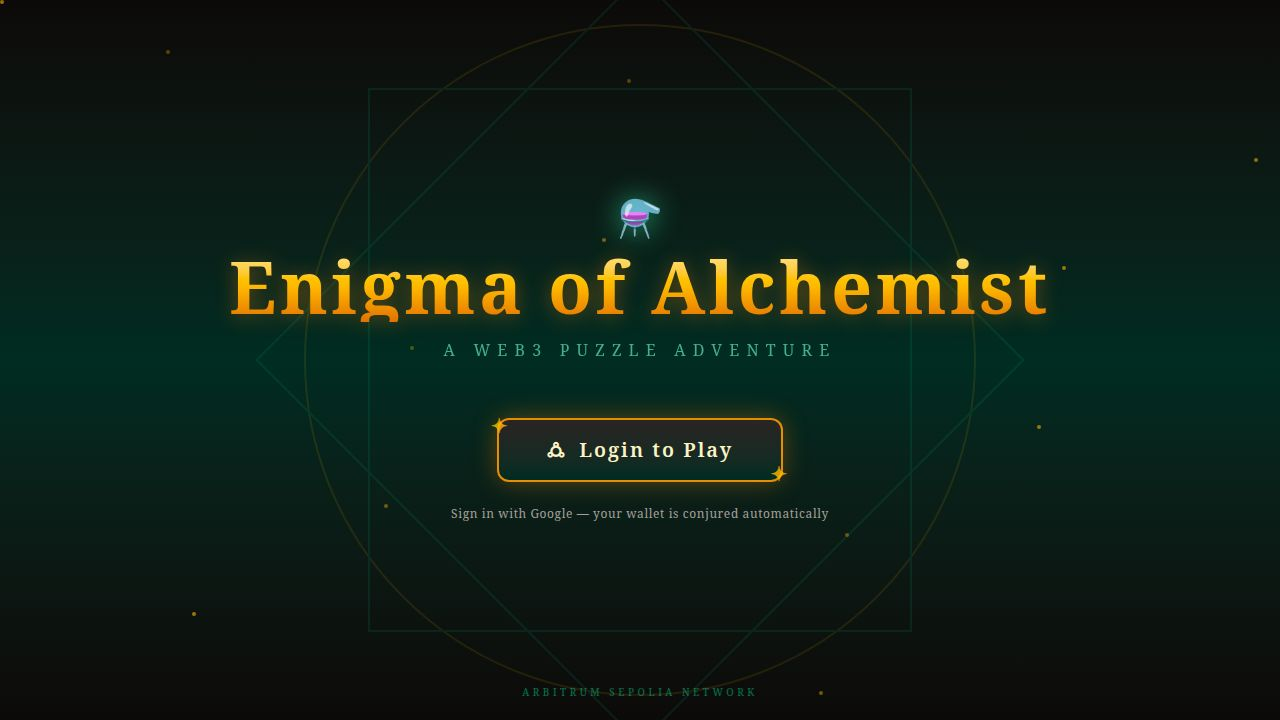
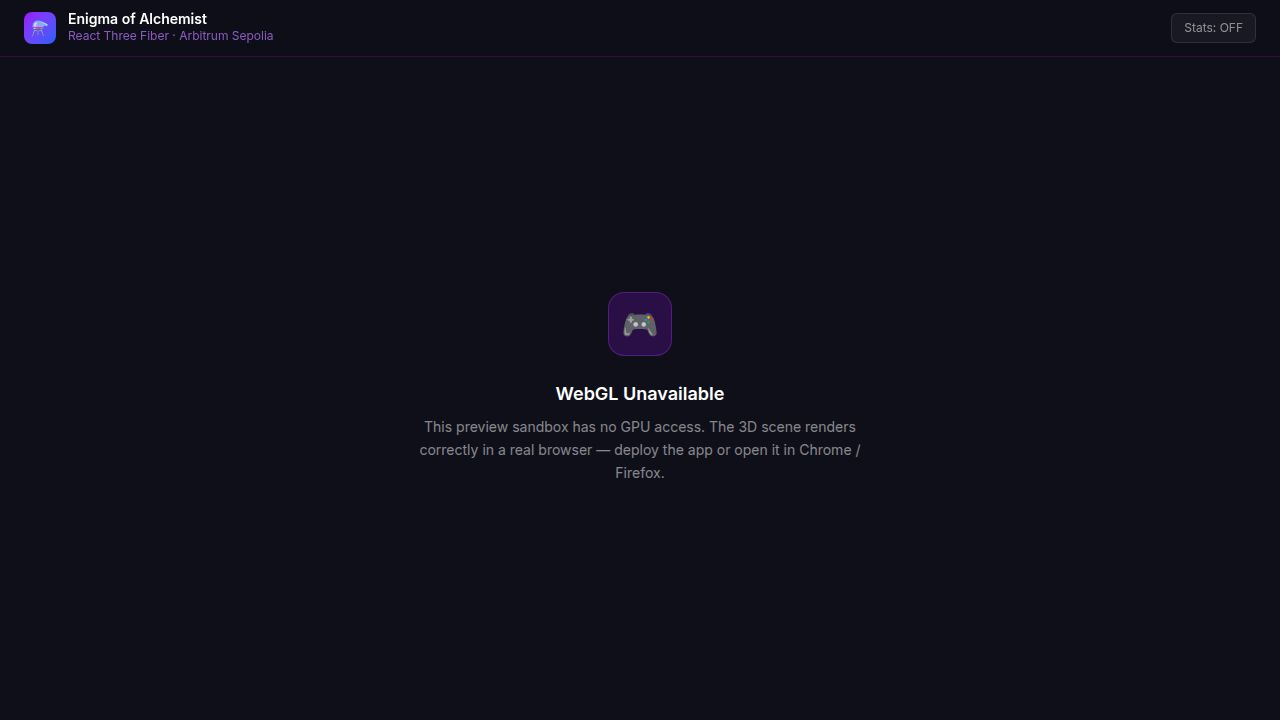
Implement a Fortnite-style third-person camera controller and relative movement
Update Player.tsx and Scene.tsx to implement a camera-relative third-person controller using @user/fiber and @user/drei, including character scaling, camera orbit controls, and smooth camera following.

Replit-Commit-Author: Agent
Replit-Commit-Session-Id: 292202ef-63d3-41d8-849c-858e9d7b175a
Replit-Commit-Checkpoint-Type: full_checkpoint
Replit-Commit-Event-Id: 8d97f522-24b5-46c8-a28e-c0a0002607c6
Replit-Commit-Screenshot-Url: https://storage.googleapis.com/screenshot-production-us-central1/5075538a-ae98-4d41-8350-b591bcd38aa4/292202ef-63d3-41d8-849c-858e9d7b175a/zk5vwV3
Replit-Helium-Checkpoint-Created: true

diff --git a/artifacts/3d-game/src/components/scene/Scene.tsx b/artifacts/3d-game/src/components/scene/Scene.tsx
@@ -1,13 +1,13 @@
 import { Suspense, useRef, useState } from "react";
-import { Canvas, useFrame, useThree } from "@react-three/fiber";
-import { Grid, Environment, Sky, Stats, KeyboardControls } from "@react-three/drei";
+import type { ElementRef } from "react";
+import { Canvas, useFrame } from "@react-three/fiber";
+import { Grid, Environment, Sky, Stats, KeyboardControls, OrbitControls } from "@react-three/drei";
 import * as THREE from "three";
 import Floor from "./Floor";
 import { WorldModel } from "./WorldModel";
 import Player, {
   PLAYER_SPAWN,
   PLAYER_WORLD_POS,
-  PLAYER_WORLD_ROT,
   playerKeyboardMap,
 } from "../3d/Player";
 import GameHUD from "../hud/GameHUD";
@@ -25,43 +25,28 @@ function isWebGLAvailable(): boolean {
   }
 }
 
-// ─── Third-person follow camera ───────────────────────────────────────────────
-const _camTarget = new THREE.Vector3();
-const _camPos    = new THREE.Vector3();
-const _lookAt    = new THREE.Vector3();
+// ─── Fortnite-style camera rig ─────────────────────────────────────────────
+// OrbitControls owns the camera (mouse drag = 360° orbit, maxPolarAngle keeps
+// it from dipping under the map). This rig just keeps the orbit *target*
+// smoothly chasing the player's upper body every frame — OrbitControls'
+// own per-frame update() then repositions the camera to preserve whatever
+// angle/distance the player last set with the mouse. That's what gives the
+// "camera follows, but you can still freely look around" Fortnite feel.
+const _cameraRigTarget = new THREE.Vector3();
 
-function FollowCamera() {
-  const { camera } = useThree();
+type OrbitControlsHandle = ElementRef<typeof OrbitControls>;
 
-  // Set initial camera pose once — matches PLAYER_SPAWN so the camera
-  // doesn't pop from the world origin to the (now far-away) spawn point.
-  const initialised = useRef(false);
-  if (!initialised.current) {
-    const [sx, sy, sz] = PLAYER_SPAWN;
-    camera.position.set(sx, sy + 3, sz + 8);
-    camera.lookAt(sx, sy + 1.2, sz);
-    initialised.current = true;
-  }
-
+function CameraRig({ controlsRef }: { controlsRef: React.RefObject<OrbitControlsHandle | null> }) {
   useFrame(() => {
-    const px = PLAYER_WORLD_POS.x;
-    const py = PLAYER_WORLD_POS.y;
-    const pz = PLAYER_WORLD_POS.z;
-    const ry = PLAYER_WORLD_ROT.y;
-
-    // Offset: 7 units behind the player, 3 units up — rotates with the player
-    const offsetX = Math.sin(ry) * 7;
-    const offsetZ = Math.cos(ry) * 7;
-
-    _camPos.set(px + offsetX, py + 3.5, pz + offsetZ);
-    _lookAt.set(px, py + 1.4, pz);
-
-    // Smooth follow
-    camera.position.lerp(_camPos, 0.06);
-    _camTarget.lerp(_lookAt, 0.1);
-    camera.lookAt(_camTarget);
+    const controls = controlsRef.current;
+    if (!controls) return;
+    _cameraRigTarget.set(
+      PLAYER_WORLD_POS.x,
+      PLAYER_WORLD_POS.y + 1.4, // look at upper body / head height
+      PLAYER_WORLD_POS.z,
+    );
+    controls.target.lerp(_cameraRigTarget, 0.15);
   });
-
   return null;
 }
 
@@ -93,6 +78,7 @@ export default function Scene({ showStats = false }: SceneProps) {
   const [score] = useState(340);
   const [essences] = useState(3);
   const [walletAddress, setWalletAddress] = useState<string | null>(null);
+  const controlsRef = useRef<OrbitControlsHandle | null>(null);
 
   const handleConnectWallet = () => {
     // Placeholder — Magic Labs + Openfort wiring happens here for Arbitrum Sepolia.
@@ -116,8 +102,22 @@ export default function Scene({ showStats = false }: SceneProps) {
       >
         {showStats && <Stats />}
 
-        {/* Follow camera (replaces OrbitControls — conflicts with movement) */}
-        <FollowCamera />
+        {/* Fortnite-style camera: OrbitControls handles mouse-driven 360°
+            orbit (enablePan disabled so you can't drag the world around;
+            maxPolarAngle caps the camera at horizon height so it can't dip
+            below the map). CameraRig keeps the orbit target glued to the
+            player so the camera follows her as she moves. */}
+        <OrbitControls
+          ref={controlsRef}
+          makeDefault
+          enablePan={false}
+          maxPolarAngle={Math.PI / 2}
+          minDistance={3}
+          maxDistance={12}
+          enableDamping
+          dampingFactor={0.08}
+        />
+        <CameraRig controlsRef={controlsRef} />
 
         {/* ── Lighting ──────────────────────────────────────────────────── */}
         {/* Soft fill for the anime character skin */}
@@ -173,21 +173,19 @@ export default function Scene({ showStats = false }: SceneProps) {
 
         <Suspense fallback={null}>
           {/*
-            Forest is now the real walkable world (not a diorama).
-            targetSize=250 makes the model's widest axis span 250 world
-            units, so trees read as 3-5x the character's height.
+            Forest is the walkable world (not a diorama). targetSize=250
+            makes the model's widest axis span 250 world units, so trees
+            read as 3-5x the character's height.
 
-            position.y=-56 is NOT a guess: measured the raw GLB's mesh
-            accessors directly (grnd top vs. the model's overall lowest
-            point, which is the slope mesh) and solved for the offset
-            that puts the "grnd" mesh's walkable top surface exactly at
-            world y=0 — the height the character always stands at (she
-            has no vertical/ground-raycast movement, see Player.tsx).
-            Final value: position.y = -(grndTopLocal - overallMinLocal) * scale
-                                     = -(1.332 - (-0.176)) * (250/6.73)
-                                     ≈ -56.0
+            The character now spawns at the world origin, so the island
+            just needs to sit slightly below her feet — position={[0,-2,0]}
+            per spec. This is a starting value, not a measured one (the
+            previous -56 offset was solved for a spawn point far from the
+            origin and no longer applies now that movement is camera-
+            relative from [0,0,0]). If she visibly floats or sinks, nudge
+            this Y value until the "grnd" mesh lines up with her feet.
           */}
-          <WorldModel url="/models/low_poly_forest.glb" targetSize={250} position={[0, -56, 0]} />
+          <WorldModel url="/models/low_poly_forest.glb" targetSize={250} position={[0, -2, 0]} />
 
           {/* Extra trees — enable once positioned/tested:
           <WorldModel url="/models/trees_optimized.glb" targetSize={30} position={[8, 0.1, -10]} />
@@ -230,10 +228,11 @@ export default function Scene({ showStats = false }: SceneProps) {
       {/* ── Controls hint overlay ─────────────────────────────────────────── */}
       <div className="absolute bottom-5 left-1/2 -translate-x-1/2 flex items-center gap-3 pointer-events-none select-none">
         {[
-          { keys: "W / ↑",   label: "Forward"  },
-          { keys: "S / ↓",   label: "Backward" },
-          { keys: "A / ←",   label: "Turn L"   },
-          { keys: "D / →",   label: "Turn R"   },
+          { keys: "W / ↑",   label: "Forward"    },
+          { keys: "S / ↓",   label: "Backward"   },
+          { keys: "A / ←",   label: "Strafe L"   },
+          { keys: "D / →",   label: "Strafe R"   },
+          { keys: "Mouse",   label: "Look Around"},
         ].map(({ keys, label }) => (
           <div
             key={label}

diff --git a/artifacts/3d-game/src/components/3d/Player.tsx b/artifacts/3d-game/src/components/3d/Player.tsx
@@ -1,21 +1,22 @@
 import { Suspense, useRef, useEffect, useState, useMemo } from "react";
 import { useGLTF, useAnimations, useKeyboardControls } from "@react-three/drei";
-import { useFrame, createPortal } from "@react-three/fiber";
+import { useFrame, useThree, createPortal } from "@react-three/fiber";
 import * as THREE from "three";
 
-// Spawn on an open grassy patch of the "grnd" mesh, clear of the water mesh.
-// Computed from the forest GLB's own mesh bounds (not eyeballed): at
-// targetSize=250 the model's world offset re-centers X/Z to 0, so
-// worldX = (localX - modelCenterX) * scale, worldZ = (localZ - modelCenterZ) * scale.
-// Picked local (x=0, z=2.5) — inside grnd's footprint (x: -3.1..2.9, z: 0..3.4),
-// safely past water's extent (z: -1.0..1.7). scale = 250/6.73 ≈ 37.15.
-export const PLAYER_SPAWN: [number, number, number] = [13.56, 0, 48.85];
+// Character now spawns at the world origin — scale/position tuned for a
+// Fortnite-style camera-relative controller (see useFrame below).
+export const PLAYER_SPAWN: [number, number, number] = [0, 0, 0];
 export const PLAYER_WORLD_POS = new THREE.Vector3(...PLAYER_SPAWN);
 export const PLAYER_WORLD_ROT = { y: 0 };
 
+// The GLB is modeled at a much larger scale than the scene expects —
+// 0.4 brings her in line with the surrounding trees/geometry.
+const PLAYER_SCALE = 0.4;
+
 // ─── Keyboard control map ──────────────────────────────────────────────────
 // Consumed by <KeyboardControls map={playerKeyboardMap}> wrapping the
-// <Canvas> in Scene.tsx.
+// <Canvas> in Scene.tsx. W/A/S/D are camera-relative (forward = "away from
+// camera", not a fixed world axis) — see the movement math in useFrame.
 export enum PlayerControl {
   forward = "forward",
   backward = "backward",
@@ -41,8 +42,18 @@ const WALK_SPEED = 2.2;
 const RUN_SPEED = 4.5;
 const TURN_LERP = 10; // higher = snappier facing rotation
 
+const WORLD_UP = new THREE.Vector3(0, 1, 0);
+
+// Reusable scratch vectors (avoid per-frame GC pressure).
+const _camForward = new THREE.Vector3();
+const _camRight = new THREE.Vector3();
+const _moveDir = new THREE.Vector3();
+const _desiredCamPos = new THREE.Vector3();
+const _lookAtTarget = new THREE.Vector3();
+
 function PlayerModel() {
   const group = useRef<THREE.Group>(null);
+  const { camera } = useThree();
 
   // Final animated character: mesh + armature + 6 clips
   // ('idle', 'walk', 'run', 'melee', 'gun', 'gun-fire').
@@ -151,21 +162,34 @@ function PlayerModel() {
     const speed = sprint ? RUN_SPEED : WALK_SPEED;
 
     if (moving) {
-      // World-space movement vector from WASD (x: strafe, z: forward/back).
-      const moveX = (left ? 1 : 0) - (right ? 1 : 0);
-      const moveZ = (backward ? 1 : 0) - (forward ? 1 : 0);
-      const len = Math.hypot(moveX, moveZ) || 1;
-      const dirX = moveX / len;
-      const dirZ = moveZ / len;
+      // ── Camera-relative movement ─────────────────────────────────────
+      // "Forward" is whatever direction the camera is currently facing
+      // (flattened to the ground plane), not a fixed world axis. Rotating
+      // the camera with the mouse rotates what W/A/S/D mean, like Fortnite.
+      camera.getWorldDirection(_camForward);
+      _camForward.y = 0;
+      _camForward.normalize();
+      _camRight.crossVectors(_camForward, WORLD_UP).normalize();
 
-      g.position.x += dirX * speed * delta;
-      g.position.z += dirZ * speed * delta;
+      const forwardInput = (forward ? 1 : 0) - (backward ? 1 : 0);
+      const strafeInput = (right ? 1 : 0) - (left ? 1 : 0);
 
-      // Smoothly rotate the character to face the movement direction.
-      const targetAngle = Math.atan2(dirX, dirZ);
-      let diff = targetAngle - g.rotation.y;
-      diff = Math.atan2(Math.sin(diff), Math.cos(diff)); // shortest angular path
-      g.rotation.y += diff * Math.min(1, TURN_LERP * delta);
+      _moveDir
+        .set(0, 0, 0)
+        .addScaledVector(_camForward, forwardInput)
+        .addScaledVector(_camRight, strafeInput);
+
+      if (_moveDir.lengthSq() > 1e-6) {
+        _moveDir.normalize();
+
+        g.position.addScaledVector(_moveDir, speed * delta);
+
+        // Smoothly rotate the character to face the movement direction.
+        const targetAngle = Math.atan2(_moveDir.x, _moveDir.z);
+        let diff = targetAngle - g.rotation.y;
+        diff = Math.atan2(Math.sin(diff), Math.cos(diff)); // shortest angular path
+        g.rotation.y += diff * Math.min(1, TURN_LERP * delta);
+      }
     }
 
     // ── Animation blending ────────────────────────────────────────────
@@ -184,7 +208,7 @@ function PlayerModel() {
   });
 
   return (
-    <group ref={group} position={PLAYER_SPAWN} dispose={null}>
+    <group ref={group} position={PLAYER_SPAWN} scale={PLAYER_SCALE} dispose={null}>
       <primitive object={scene} />
 
       {/* Weapon attachment: portal the gun mesh directly into the bone's
@@ -197,24 +221,9 @@ function PlayerModel() {
   );
 }
 
-function PlayerFallback() {
-  return (
-    <group position={PLAYER_SPAWN}>
-      <mesh position={[0, 0.85, 0]} castShadow receiveShadow>
-        <capsuleGeometry args={[0.35, 1.1, 8, 16]} />
-        <meshStandardMaterial color="#7c3aed" roughness={0.4} metalness={0.5} />
-      </mesh>
-      <mesh position={[0, 1.85, 0]} castShadow>
-        <sphereGeometry args={[0.32, 16, 16]} />
-        <meshStandardMaterial color="#a78bfa" roughness={0.3} metalness={0.4} />
-      </mesh>
-    </group>
-  );
-}
-
 export default function Player() {
   return (
-    <Suspense fallback={<PlayerFallback />}>
+    <Suspense fallback={null}>
       <PlayerModel />
     </Suspense>
   );